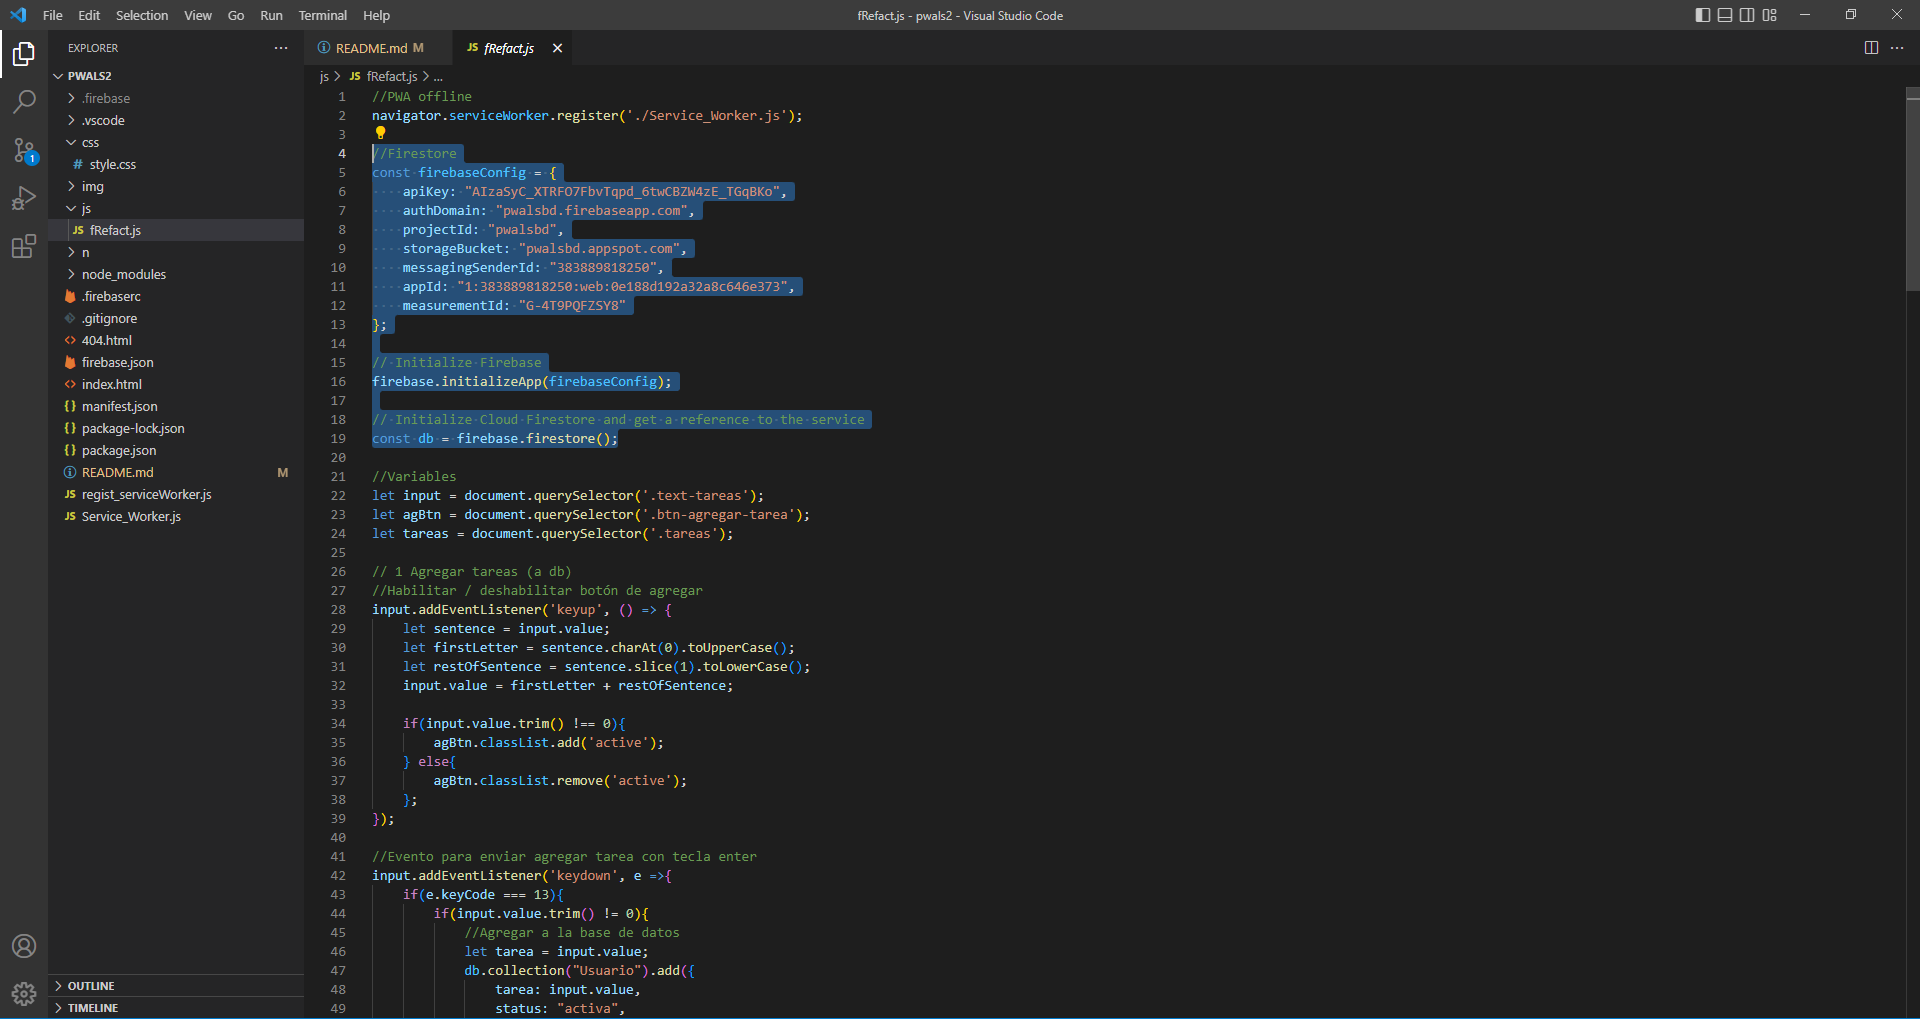
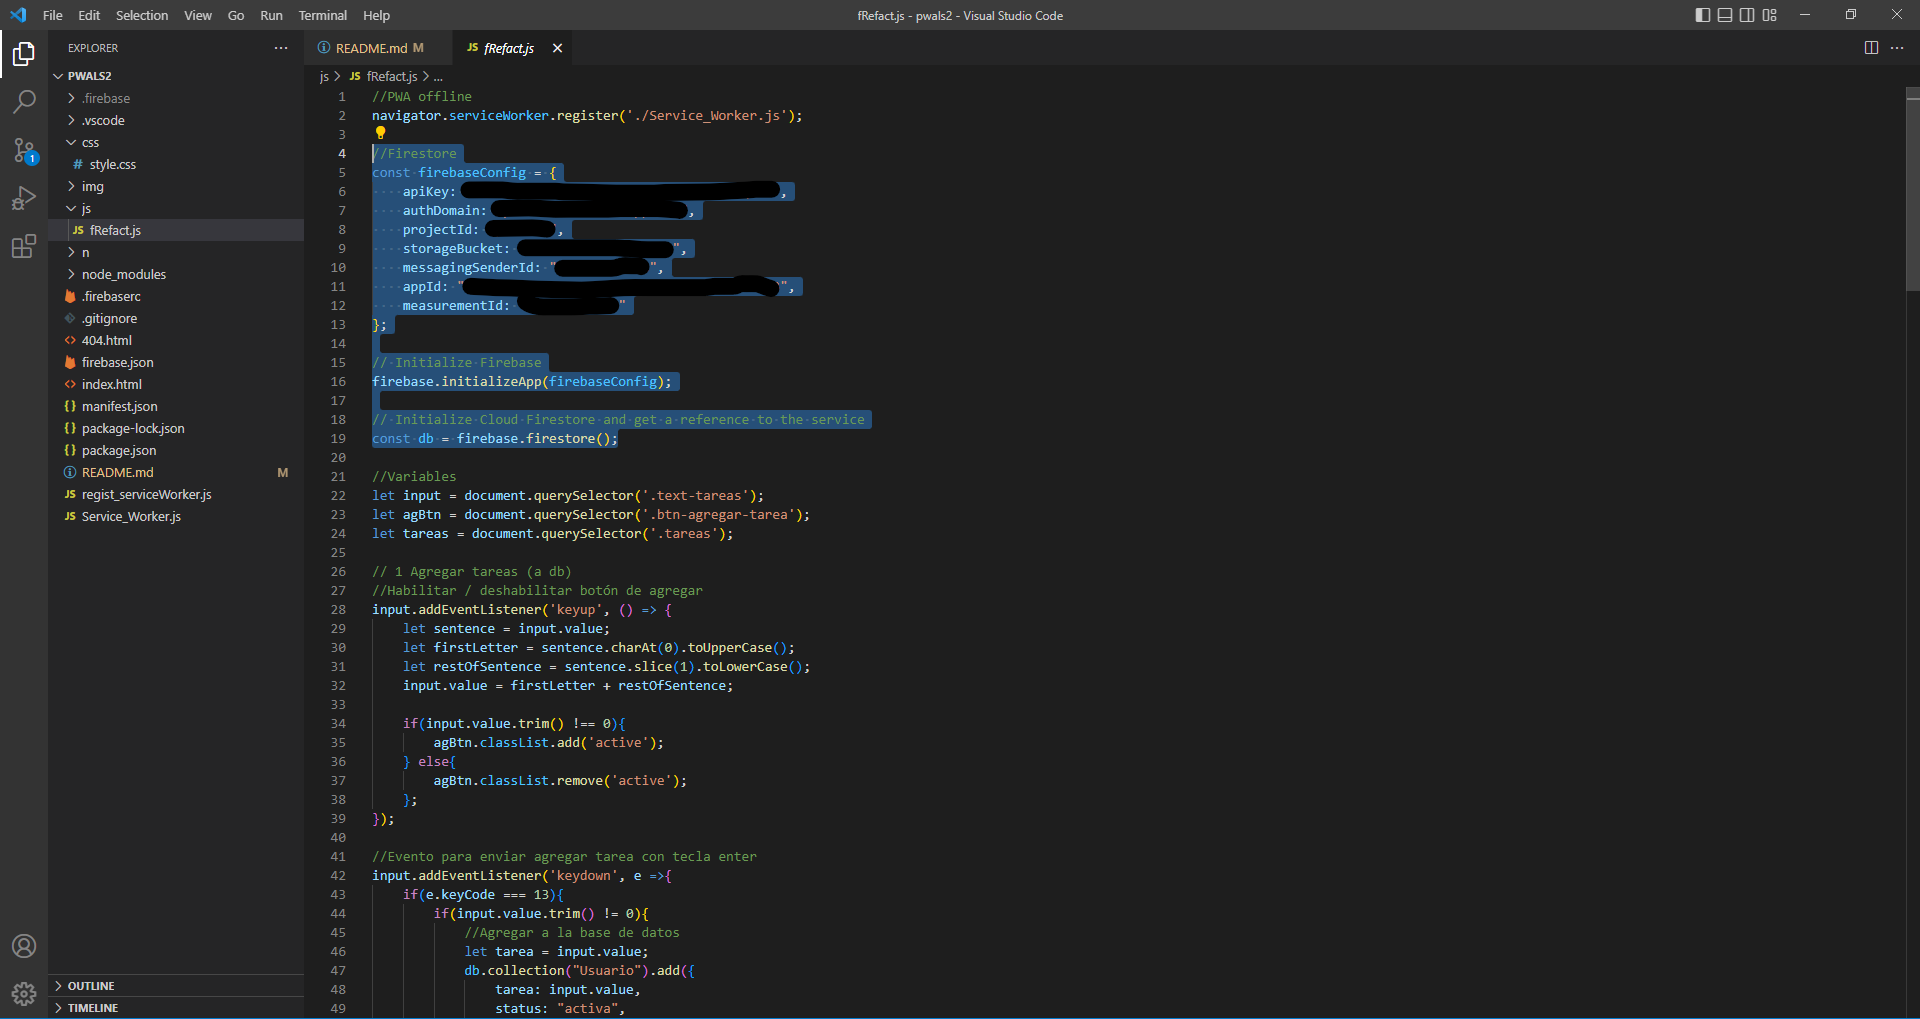
correc readme

Changed region(s): [[0.2188, 0.1521, 0.4062, 0.3346]]

diff --git a/README.md b/README.md
@@ -33,19 +33,19 @@ JS
 ``` javascript
 const firebaseConfig = {
 
-    apiKey: "AIzaSyC_XTRFO7FbvTqpd_6twCBZW4zE_TGqBKo",
+    apiKey: "El contenido que aparezca en tu firebaseconfig",
 
-    authDomain: "pwalsbd.firebaseapp.com",
+    authDomain: "El contenido que aparezca en tu firebaseconfig",
 
-    projectId: "pwalsbd",
+    projectId: "El contenido que aparezca en tu firebaseconfig",
 
-    storageBucket: "pwalsbd.appspot.com",
+    storageBucket: "El contenido que aparezca en tu firebaseconfig",
 
-    messagingSenderId: "383889818250",
+    messagingSenderId: "El contenido que aparezca en tu firebaseconfig",
 
-    appId: "1:383889818250:web:0e188d192a32a8c646e373",
+    appId: "El contenido que aparezca en tu firebaseconfig",
 
-    measurementId: "G-4T9PQFZSY8"
+    measurementId: "El contenido que aparezca en tu firebaseconfig"
 
 };
 
@@ -57,6 +57,11 @@ const db = firebase.firestore();
 Ejemplo:
 ![Image text](./imgs-readme/firestorecnc.PNG)
 
+Este apardado de código para la configuración se obtiene entrando a la configuración del proyecto en firebase presionando el ícono de engrane.
+![Image text](./imgs-readme/confproy.PNG)
+
+En la página que carga, ve hacia el fondo donde te aparecerá un código, seleccionas la opción de "config" tal como aparece en la imágen, lo copias y lo pegas en el archivo js.
+![Image text](./imgs-readme/config.PNG.PNG)
 
 Esto se debe de colocar al principio del archivo de js para que se pueda establecer la conexión con la base de datos.
 
